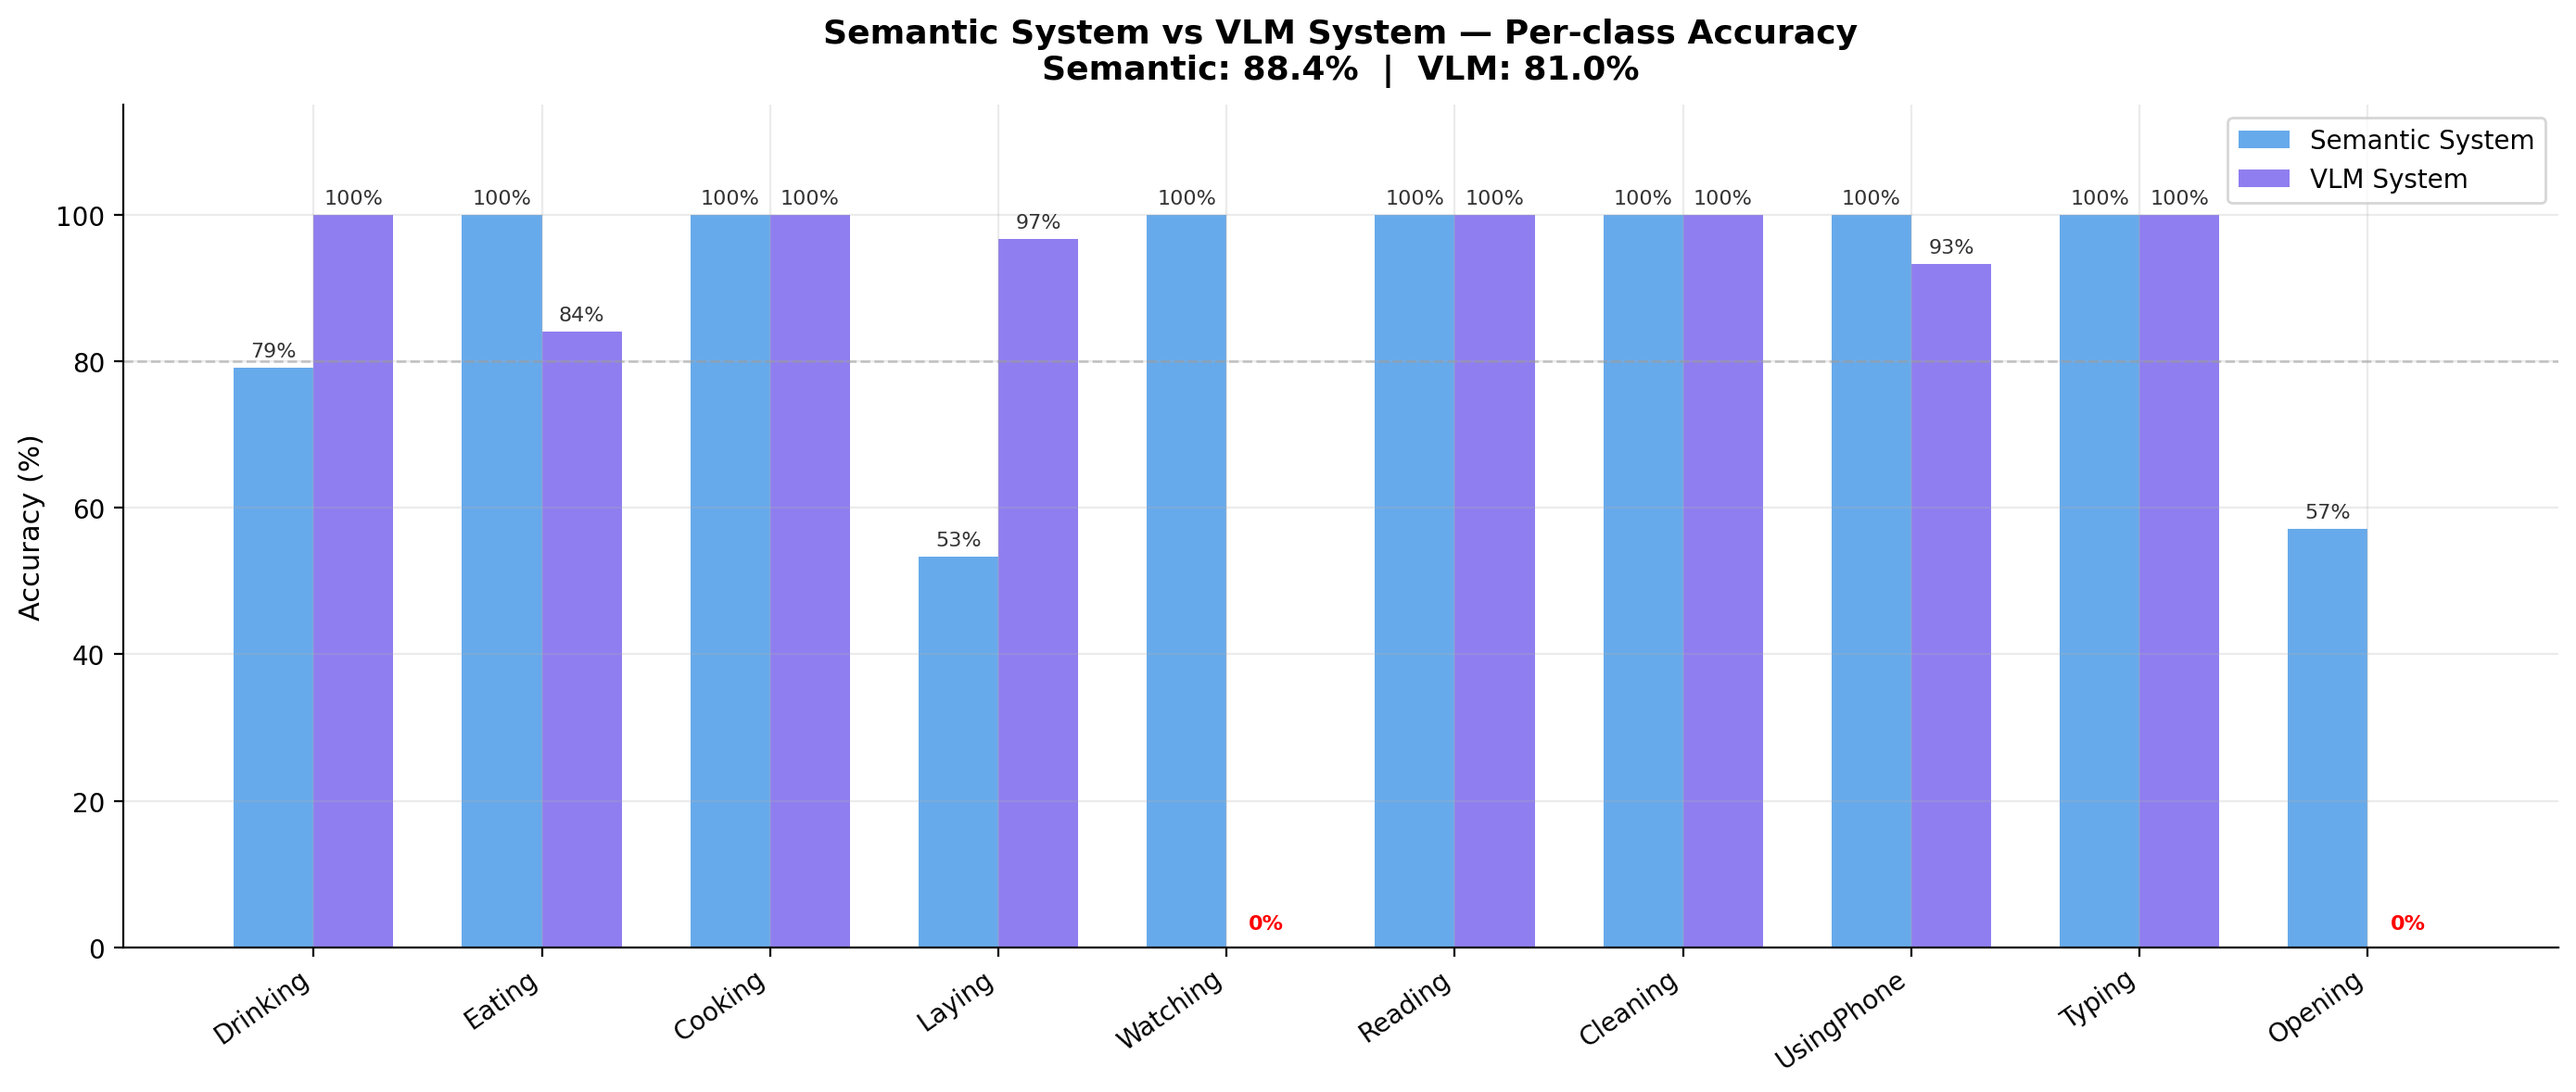
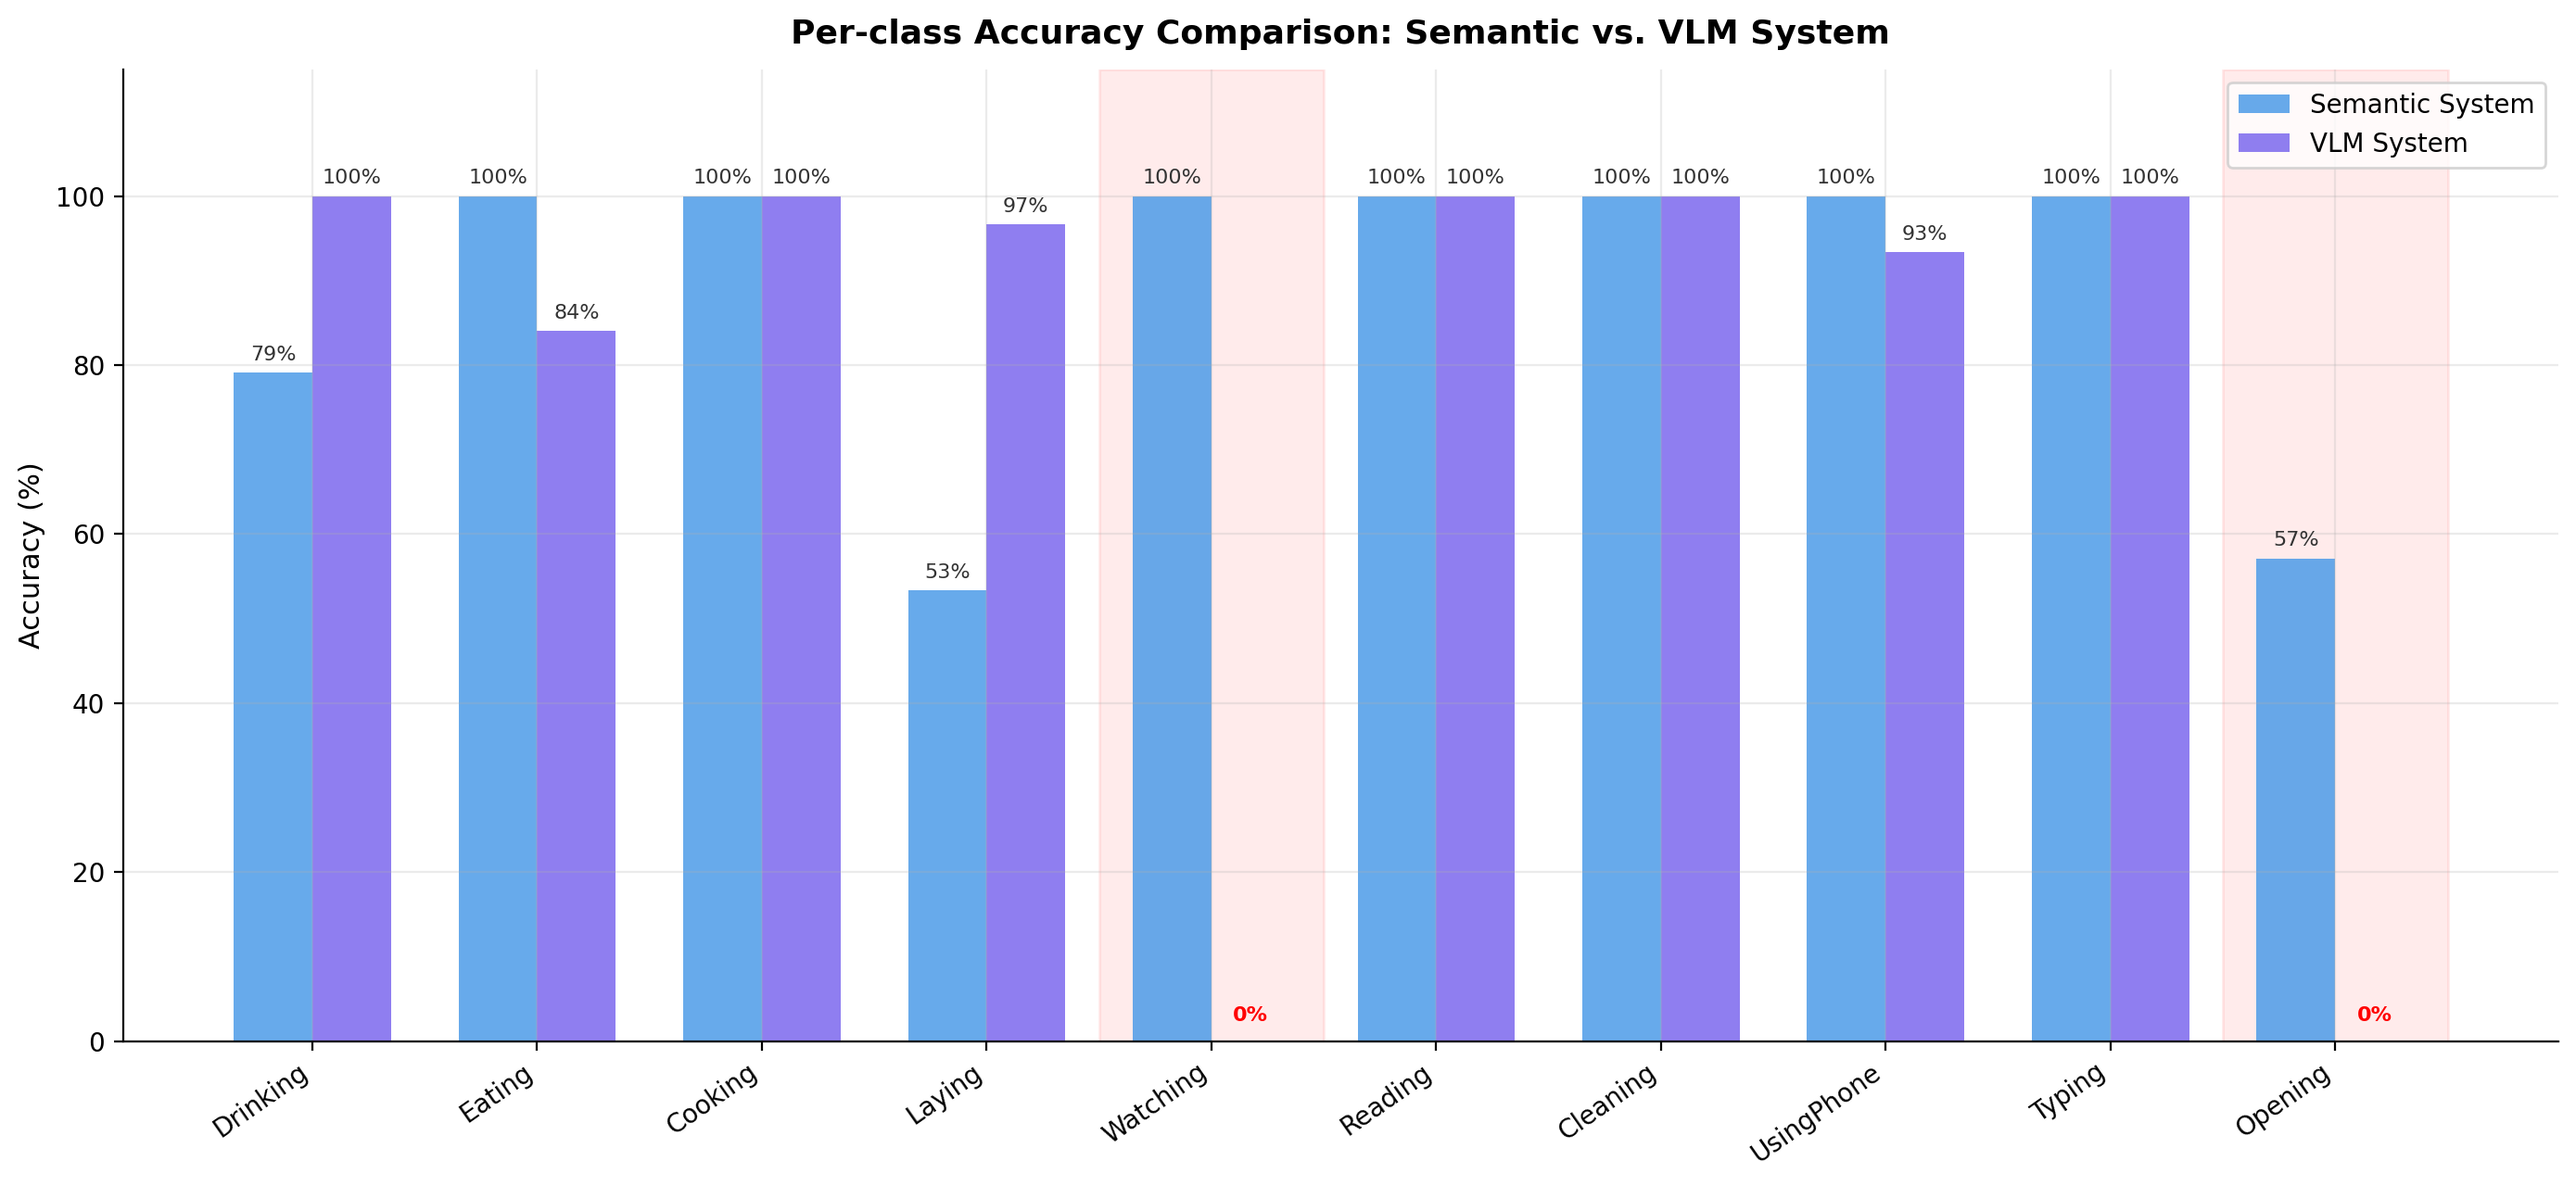
update exps related and demo

diff --git a/analysis/exp4_behavior_pattern.py b/analysis/exp4_behavior_pattern.py
@@ -52,8 +52,14 @@ SCHEDULED_FOR_USER = {
     "User_Dad": ALL_SCHEDULED_ACTIONS - set(NEVER_SCHEDULED["User_Dad"]),
 }
 
+# The 5 actions both users are scheduled to perform (Shared group).
+SHARED_ACTIONS = sorted(
+    SCHEDULED_FOR_USER["User_Mom"] & SCHEDULED_FOR_USER["User_Dad"]
+)
+
 
 def load_hourly_action_data(db) -> dict:
+    """Predicted (_pred) action counts, i.e. what the system itself observed."""
     docs = load_docs(db, COL_SEMANTIC)
     result = {uid: defaultdict(lambda: defaultdict(int)) for uid in USERS}
     for d in docs:
@@ -69,38 +75,59 @@ def load_hourly_action_data(db) -> dict:
     return result
 
 
-def plot_shared_vs_exclusive_actions(hourly: dict, save_path: str):
+
+def load_actual_scheduled_counts(db) -> dict:
+    """
+    Actual (Unity-scheduled) action counts per user — straight from the
+    fixed behavioral schedule, not the system's own HAR predictions.
+    """
+    docs = load_docs(db, COL_SEMANTIC)
+    counts = {uid: defaultdict(int) for uid in USERS}
+    for d in docs:
+        uid = d.get("user", "")
+        actual = d.get("ground_truth", "")  # DB field name; displayed as "Actual"
+        if uid not in USERS or not actual:
+            continue
+        counts[uid][actual] += 1
+    return counts
+
+
+def _plot_action_counts_by_group(get_value, mode: str, save_path: str, title: str, ylabel: str):
+    """
+    Shared plotting logic for the Mom-only / Shared / Dad-only grouped bar
+    chart. `get_value(uid, action)` supplies the bar height; `mode` is
+    "observed" (system-inferred, may include misclassifications flagged
+    in red) or "actual" (Unity-scheduled, always clean — no user is ever
+    scheduled for an action outside their own set, so no highlighting is
+    needed).
+    """
     shared   = sorted(SCHEDULED_FOR_USER["User_Mom"] & SCHEDULED_FOR_USER["User_Dad"])
     mom_only = sorted(SCHEDULED_FOR_USER["User_Mom"] - SCHEDULED_FOR_USER["User_Dad"])
     dad_only = sorted(SCHEDULED_FOR_USER["User_Dad"] - SCHEDULED_FOR_USER["User_Mom"])
     action_order = mom_only + shared + dad_only
 
     if not action_order:
-        print("[exp4] Skipping shared-vs-exclusive chart: no scheduled actions found")
+        print(f"[exp4] Skipping {mode} chart: no scheduled actions found")
         return
 
-    def _total(uid, action):
-        return sum(hourly[uid].get(action, {}).values())
-
-    mom_vals = [_total("User_Mom", a) for a in action_order]
-    dad_vals = [_total("User_Dad", a) for a in action_order]
+    mom_vals = [get_value("User_Mom", a) for a in action_order]
+    dad_vals = [get_value("User_Dad", a) for a in action_order]
 
     x = np.arange(len(action_order))
     w = 0.35
 
     fig, ax = plt.subplots(figsize=(max(14, len(action_order) * 1.5), 6))
 
-    bars_m = ax.bar(x - w / 2, mom_vals, w, label="Mom (observed count)",
+    bars_m = ax.bar(x - w / 2, mom_vals, w, label="Mom",
                     color=C["mom"], alpha=0.85, edgecolor="white", zorder=3)
-    bars_d = ax.bar(x + w / 2, dad_vals, w, label="Dad (observed count)",
+    bars_d = ax.bar(x + w / 2, dad_vals, w, label="Dad",
                     color=C["dad"], alpha=0.85, edgecolor="white", zorder=3)
 
-    ymax = max(max(mom_vals, default=1), max(dad_vals, default=1))
+    ymax = max(max(mom_vals, default=1), max(dad_vals, default=1), 1)
 
-    # value labels
     for bar, val, action in zip(bars_m, mom_vals, action_order):
         if val > 0:
-            unexpected = action not in SCHEDULED_FOR_USER["User_Mom"]
+            unexpected = mode == "observed" and action not in SCHEDULED_FOR_USER["User_Mom"]
             ax.text(
                 bar.get_x() + bar.get_width() / 2,
                 bar.get_height() + ymax * 0.01,
@@ -114,7 +141,7 @@ def plot_shared_vs_exclusive_actions(hourly: dict, save_path: str):
 
     for bar, val, action in zip(bars_d, dad_vals, action_order):
         if val > 0:
-            unexpected = action not in SCHEDULED_FOR_USER["User_Dad"]
+            unexpected = mode == "observed" and action not in SCHEDULED_FOR_USER["User_Dad"]
             ax.text(
                 bar.get_x() + bar.get_width() / 2,
                 bar.get_height() + ymax * 0.01,
@@ -131,7 +158,6 @@ def plot_shared_vs_exclusive_actions(hourly: dict, save_path: str):
     n_mom    = len(mom_only)
     n_dad    = len(dad_only)
 
-    # order: mom_only | shared | dad_only
     boundaries = []
     if n_mom and (n_shared or n_dad):
         boundaries.append(n_mom - 0.5)
@@ -141,7 +167,6 @@ def plot_shared_vs_exclusive_actions(hourly: dict, save_path: str):
     for b in boundaries:
         ax.axvline(b, color="#999", linestyle="--", lw=1.2, alpha=0.7, zorder=2)
 
-    # group background shading — order: mom_only | shared | dad_only
     shade_alpha = 0.06
     group_ranges = []
     if n_mom:
@@ -154,10 +179,8 @@ def plot_shared_vs_exclusive_actions(hourly: dict, save_path: str):
     for start, end, color, label in group_ranges:
         ax.axvspan(start - 0.5, end - 0.5, alpha=shade_alpha, color=color, zorder=1)
 
-    # group labels — centred over each shaded region
     for start, end, color, label in group_ranges:
         cx = (start + end - 1) / 2
-        # single-bar group: shift right so label sits over the bar
         if end - start == 1:
             cx += 0.3
         ax.text(
@@ -171,25 +194,12 @@ def plot_shared_vs_exclusive_actions(hourly: dict, save_path: str):
 
     ax.set_xticks(x)
     ax.set_xticklabels(action_order, rotation=30, ha="right", fontsize=FONT_TICK)
-    ax.set_ylabel("Observed count (System A, 189 episodes)", fontsize=FONT_AXIS)
+    ax.set_ylabel(ylabel, fontsize=FONT_AXIS)
     ax.set_ylim(0, ymax * 1.35)
     ax.grid(axis="y", linestyle="--", alpha=0.4, zorder=0)
+    ax.legend(fontsize=FONT_TICK, loc="upper right", framealpha=0.85)
+    ax.set_title(title, fontsize=FONT_TITLE, fontweight="bold", pad=10)
 
-    # legend inside plot
-    ax.legend(
-        fontsize=FONT_TICK,
-        loc="upper right",
-        framealpha=0.85,
-    )
-
-    ax.set_title(
-        "BPA Behavioral Differentiation: Observed Action Counts per User",
-        fontsize=FONT_TITLE,
-        fontweight="bold",
-        pad=10,
-    )
-
-    # caption as x-axis label (stays inside bbox)
     caption_lines = [
         f"Grouping source: ExperimentRunner.cs  |  "
         f"Shared: {', '.join(shared)}",
@@ -207,6 +217,33 @@ def plot_shared_vs_exclusive_actions(hourly: dict, save_path: str):
     plt.savefig(save_path, dpi=FIG_DPI, bbox_inches="tight")
     plt.close()
     print(f"[exp4] Saved: {save_path}")
+
+
+def plot_shared_vs_exclusive_actions(hourly: dict, save_path: str):
+    """System-inferred (observed) action counts per user. May include a
+    small number of misclassified 'unexpected' values (highlighted red)."""
+    def get_value(uid, action):
+        return sum(hourly[uid].get(action, {}).values())
+
+    _plot_action_counts_by_group(
+        get_value, mode="observed", save_path=save_path,
+        title="BPA Behavioral Differentiation: System-Inferred Action Counts per User",
+        ylabel="System-inferred count (System A, 189 episodes)",
+    )
+
+
+def plot_actual_scheduled_actions(actual_counts: dict, save_path: str):
+    """Actual (Unity-scheduled) action counts per user — same visual
+    layout as plot_shared_vs_exclusive_actions, for direct side-by-side
+    comparison. No misclassification is possible here by construction."""
+    def get_value(uid, action):
+        return actual_counts[uid].get(action, 0)
+
+    _plot_action_counts_by_group(
+        get_value, mode="actual", save_path=save_path,
+        title="BPA Behavioral Differentiation: Actual (Scheduled) Action Counts per User",
+        ylabel="Actual scheduled count (System A, 189 episodes)",
+    )
 
 
 def save_summary(hourly: dict, save_path: str, exp1_accuracy: float = None):
@@ -277,6 +314,18 @@ def main():
     plot_shared_vs_exclusive_actions(
         hourly,
         os.path.join(RESULTS_DIR, "exp4_shared_vs_exclusive.png"),
+    )
+
+    # NEW: identical-layout "twin" chart using Actual (Unity-scheduled)
+    # counts instead of system-inferred counts, for direct side-by-side
+    # comparison — same grouping, same axes, same order, only the data
+    # source differs. Together the two charts support: (1) the system's
+    # learned pattern tracks real behavior despite HAR errors, and
+    # (2) Mom's and Dad's profiles remain clearly distinguishable.
+    actual_counts = load_actual_scheduled_counts(db)
+    plot_actual_scheduled_actions(
+        actual_counts,
+        os.path.join(RESULTS_DIR, "exp4_actual_scheduled.png"),
     )
 
     exp1_docs = load_docs(db, COL_SEMANTIC)

diff --git a/analysis/exp2_har_corruption.py b/analysis/exp2_har_corruption.py
@@ -21,7 +21,7 @@ from exp_config import (
 apply_style()
 
 CONDITIONS = [
-    ("Baseline（System A）", DB_BASELINE,   COL_SEMANTIC,          C["baseline"]),
+    ("Baseline",           DB_BASELINE,   COL_SEMANTIC,          C["baseline"]),
     ("Light Corruption",    DB_CORRUPTION, COL_CORRUPTION_LIGHT,  C["corruption_light"]),
     ("Medium Corruption",   DB_CORRUPTION, COL_CORRUPTION_MEDIUM, C["corruption_medium"]),
     ("Heavy Corruption",    DB_CORRUPTION, COL_CORRUPTION_HEAVY,  C["corruption_heavy"]),
@@ -40,11 +40,15 @@ def per_class_accuracy(docs: list) -> dict:
 
 
 NOISE_DETAIL = {
-    "Baseline（System A）": "",
+    "Baseline":            "",
     "Light Corruption":    "pickup 15% / putdown 5% / obj 10% / skel 5°",
     "Medium Corruption":   "pickup 25% / putdown 10% / obj 15% / skel 10°",
     "Heavy Corruption":    "pickup 35% / putdown 15% / obj 20% / skel 15°",
 }
+
+# Font sizes for this chart's x-axis tick labels were previously too small
+# to read (FONT_TICK - 2). Bumped up and made explicit here.
+XTICK_FONT = FONT_TICK + 3
 
 
 def plot_accuracy_drop(results: dict, save_path: str):
@@ -52,7 +56,7 @@ def plot_accuracy_drop(results: dict, save_path: str):
     accs  = [results[n]["acc"] * 100 for n in names]
     colors = [r[3] for r in CONDITIONS if r[0] in names]
 
-    fig, ax = plt.subplots(figsize=(13, 6.5))
+    fig, ax = plt.subplots(figsize=(13, 7))
     bars = ax.bar(range(len(names)), accs, color=colors,
                   alpha=0.88, width=0.55, edgecolor="white")
 
@@ -64,7 +68,7 @@ def plot_accuracy_drop(results: dict, save_path: str):
             label += f"\n(−{drop:.1f}%)"
         ax.text(bar.get_x() + bar.get_width() / 2,
                 bar.get_height() + 0.5, label,
-                ha="center", va="bottom", fontsize=FONT_ANNOT,
+                ha="center", va="bottom", fontsize=FONT_ANNOT + 1,
                 color=C["highlight"] if drop > 5 else "#333",
                 fontweight="bold" if drop > 5 else "normal")
 
@@ -74,15 +78,12 @@ def plot_accuracy_drop(results: dict, save_path: str):
         detail_lines = detail.replace(" / ", "\n") if detail else ""
         tick_labels.append(f"{n}\n{detail_lines}".rstrip())
 
-    ax.axhline(baseline_acc, color=C["baseline"], linestyle="--",
-               lw=1.5, alpha=0.6, label=f"Baseline ({baseline_acc:.1f}%)")
     ax.set_xticks(range(len(names)))
-    ax.set_xticklabels(tick_labels, fontsize=FONT_TICK - 2)
+    ax.set_xticklabels(tick_labels, fontsize=XTICK_FONT)
     ax.set_ylabel("Accuracy (%)", fontsize=FONT_AXIS)
     ax.set_ylim(0, 110)
     ax.set_title("HAR Accuracy vs Sensor Corruption Level",
                  fontsize=FONT_TITLE, fontweight="bold", pad=10)
-    ax.legend(fontsize=FONT_TICK)
 
     plt.tight_layout()
     plt.savefig(save_path, dpi=FIG_DPI, bbox_inches="tight")

diff --git a/analysis/exp1_har_baseline.py b/analysis/exp1_har_baseline.py
@@ -76,6 +76,17 @@ def plot_confusion_matrix(docs: list, save_path: str, system_label: str = "Basel
 
 
 def plot_system_comparison(docs_a: list, docs_b: list, save_path: str):
+    """
+    Per-class accuracy comparison, Semantic vs VLM.
+
+    Presentation choice (per advisor feedback): do NOT lead with the
+    aggregate accuracy numbers (88.4% / 81.0%) in the title. Two classes
+    (Watching, Opening) are 0% for the VLM system and would unfairly drag
+    down the headline number, implying the two systems are far apart when
+    in fact they are comparable everywhere except those two classes. The
+    chart instead calls out those two classes directly and defers the
+    explanation to the next slide (photos of the Watching/Opening scenes).
+    """
     labels_a = [l for l in ADL_LABELS if any(d.get("ground_truth") == l for d in docs_a)]
     labels   = labels_a
 
@@ -95,11 +106,11 @@ def plot_system_comparison(docs_a: list, docs_b: list, save_path: str):
 
     x = np.arange(len(labels))
     w = 0.35
-    fig, ax = plt.subplots(figsize=(14, 6))
-    ax.bar(x - w/2, accs_a, w,
+    fig, ax = plt.subplots(figsize=(14, 6.5))
+    bars_a = ax.bar(x - w/2, accs_a, w,
            label="Semantic System",
            color=C["baseline"], alpha=0.85)
-    ax.bar(x + w/2, accs_b, w,
+    bars_b = ax.bar(x + w/2, accs_b, w,
            label="VLM System",
            color=C["ablation"], alpha=0.85)
 
@@ -118,19 +129,21 @@ def plot_system_comparison(docs_a: list, docs_b: list, save_path: str):
             ax.text(i + w/2, 2, "0%",
                     ha="center", va="bottom", fontsize=8, color="red", fontweight="bold")
 
-    acc_a, c_a, t_a = compute_accuracy(docs_a)
-    acc_b, c_b, t_b = compute_accuracy(docs_b) if docs_b else (0, 0, 0)
+    # Highlight the classes where VLM completely fails (0%) with a red
+    # background band. No callout text — the red highlight alone is enough;
+    # explanation is deferred to the next slide (photos).
+    gap_classes = [i for i, b in enumerate(accs_b) if b == 0.0]
+    for i in gap_classes:
+        ax.axvspan(i - 0.5, i + 0.5, color="red", alpha=0.08, zorder=0)
 
-    ax.axhline(80, color="#999", linestyle="--", lw=1.0, alpha=0.5)
     ax.set_xticks(x)
     ax.set_xticklabels(labels, rotation=35, ha="right", fontsize=FONT_TICK)
     ax.set_ylabel("Accuracy (%)", fontsize=FONT_AXIS)
     ax.set_ylim(0, 115)
+    ax.legend(fontsize=FONT_TICK, loc="upper right")
     ax.set_title(
-        f"Semantic System vs VLM System — Per-class Accuracy\n"
-        f"Semantic: {acc_a:.1%}  |  VLM: {acc_b:.1%}",
+        "Per-class Accuracy Comparison: Semantic vs. VLM System",
         fontsize=FONT_TITLE, fontweight="bold", pad=10)
-    ax.legend(fontsize=FONT_TICK)
 
     plt.tight_layout()
     plt.savefig(save_path, dpi=FIG_DPI, bbox_inches="tight")
